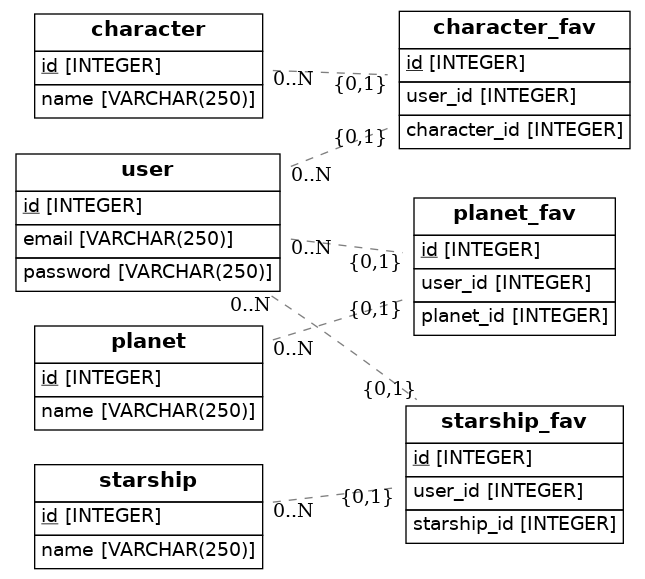
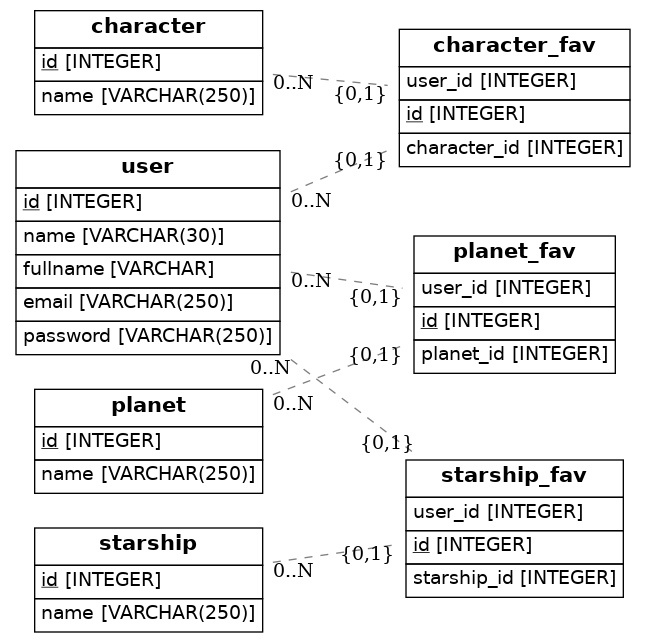
New edits on User

diff --git a/src/models.py b/src/models.py
@@ -13,6 +13,8 @@ class User(Base):
     # Here we define columns for the table person
     # Notice that each column is also a normal Python instance attribute.
     id = Column(Integer, primary_key=True)
+    name = Column(String(30))
+    fullname = Column(String)
     email = Column(String(250), nullable=False)
     password = Column(String(250), nullable=False)
     
@@ -23,9 +25,8 @@ class User(Base):
     
     class Planet_Fav(Base):
         __tablename__ = 'planet_fav'
-    # Here we define columns for the table address.
-        id = Column(Integer, primary_key=True)
         user_id = Column(Integer, ForeignKey('user.id'))
+        id = Column(Integer, primary_key=True)
         planet_id = Column(Integer, ForeignKey('planet.id'))
         
         def to_dict(self):
@@ -38,9 +39,8 @@ class User(Base):
     
     class Character_Fav(Base):
         __tablename__ = 'character_fav'
-    # Here we define columns for the table address.
-        id = Column(Integer, primary_key=True)
         user_id = Column(Integer, ForeignKey('user.id'))
+        id = Column(Integer, primary_key=True)
         character_id = Column(Integer, ForeignKey('character.id'))
     
     def to_dict(self):
@@ -53,9 +53,8 @@ class User(Base):
     
     class Starship_Fav(Base):
         __tablename__ = 'starship_fav'
-    # Here we define columns for the table address.
-        id = Column(Integer, primary_key=True)
         user_id = Column(Integer, ForeignKey('user.id'))
+        id = Column(Integer, primary_key=True)
         starship_id = Column(Integer, ForeignKey('starship.id'))
     
     def to_dict(self):

diff --git a/README.md b/README.md
@@ -1,5 +1,7 @@
 # Create the database model for StarWars blog
 
+<img src="/assets/database model for StarWars blog.png" />
+
 **Important**: To do this activity you need to `fork` this repo into your **Github** account and then open the forked repo on Gitpod.
 
 Inside the `src/models.py` file you will find a couple of classes describing an example database.
